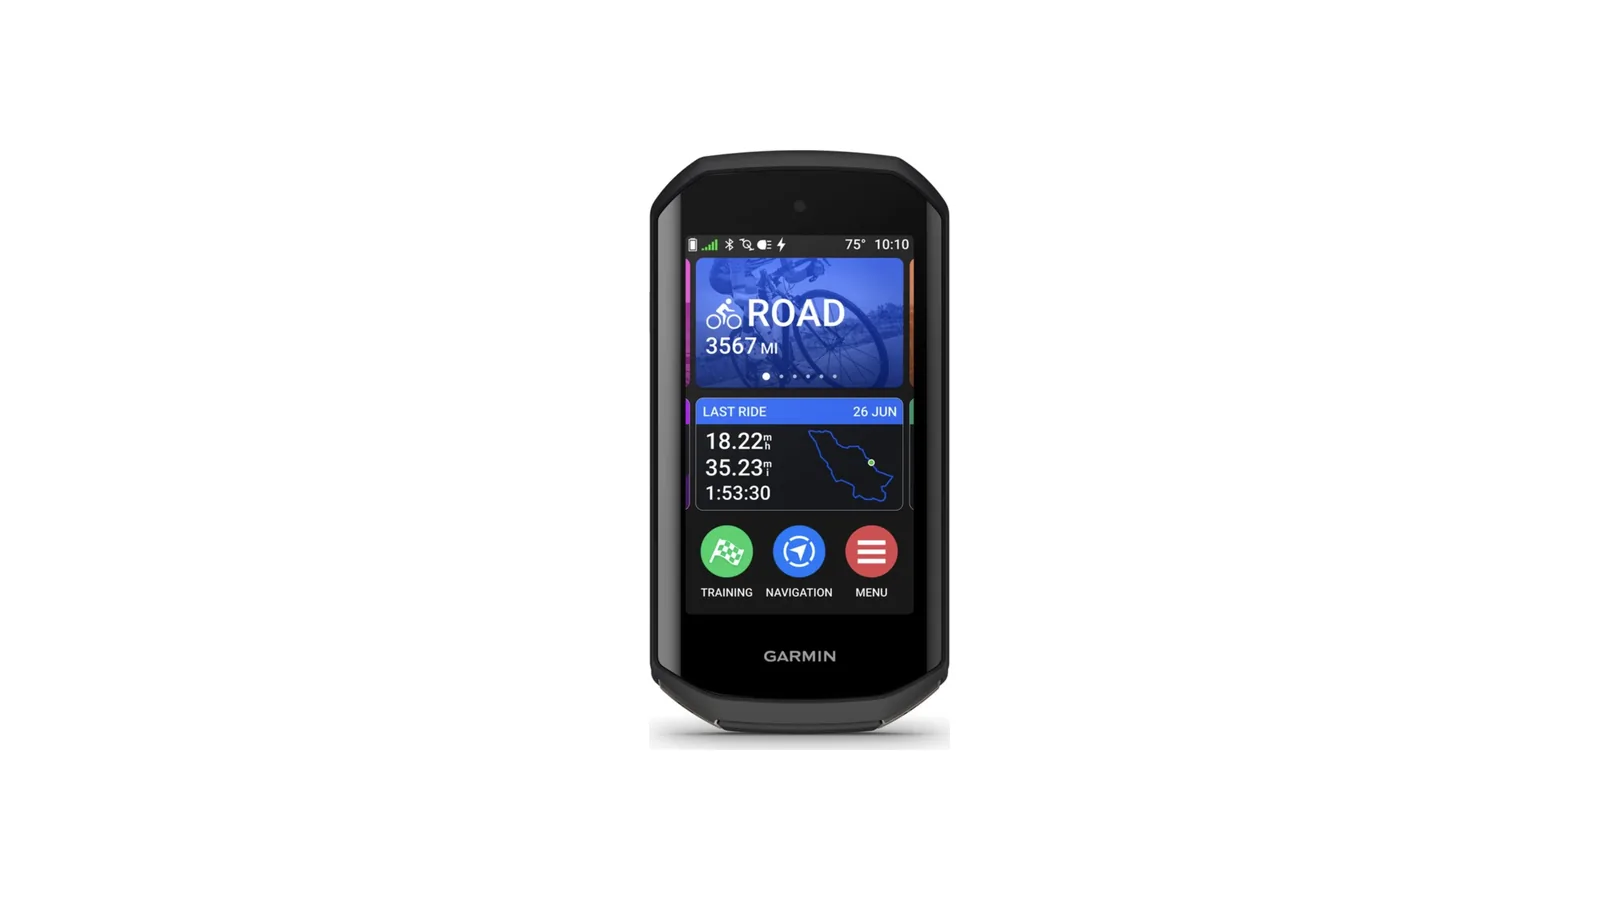
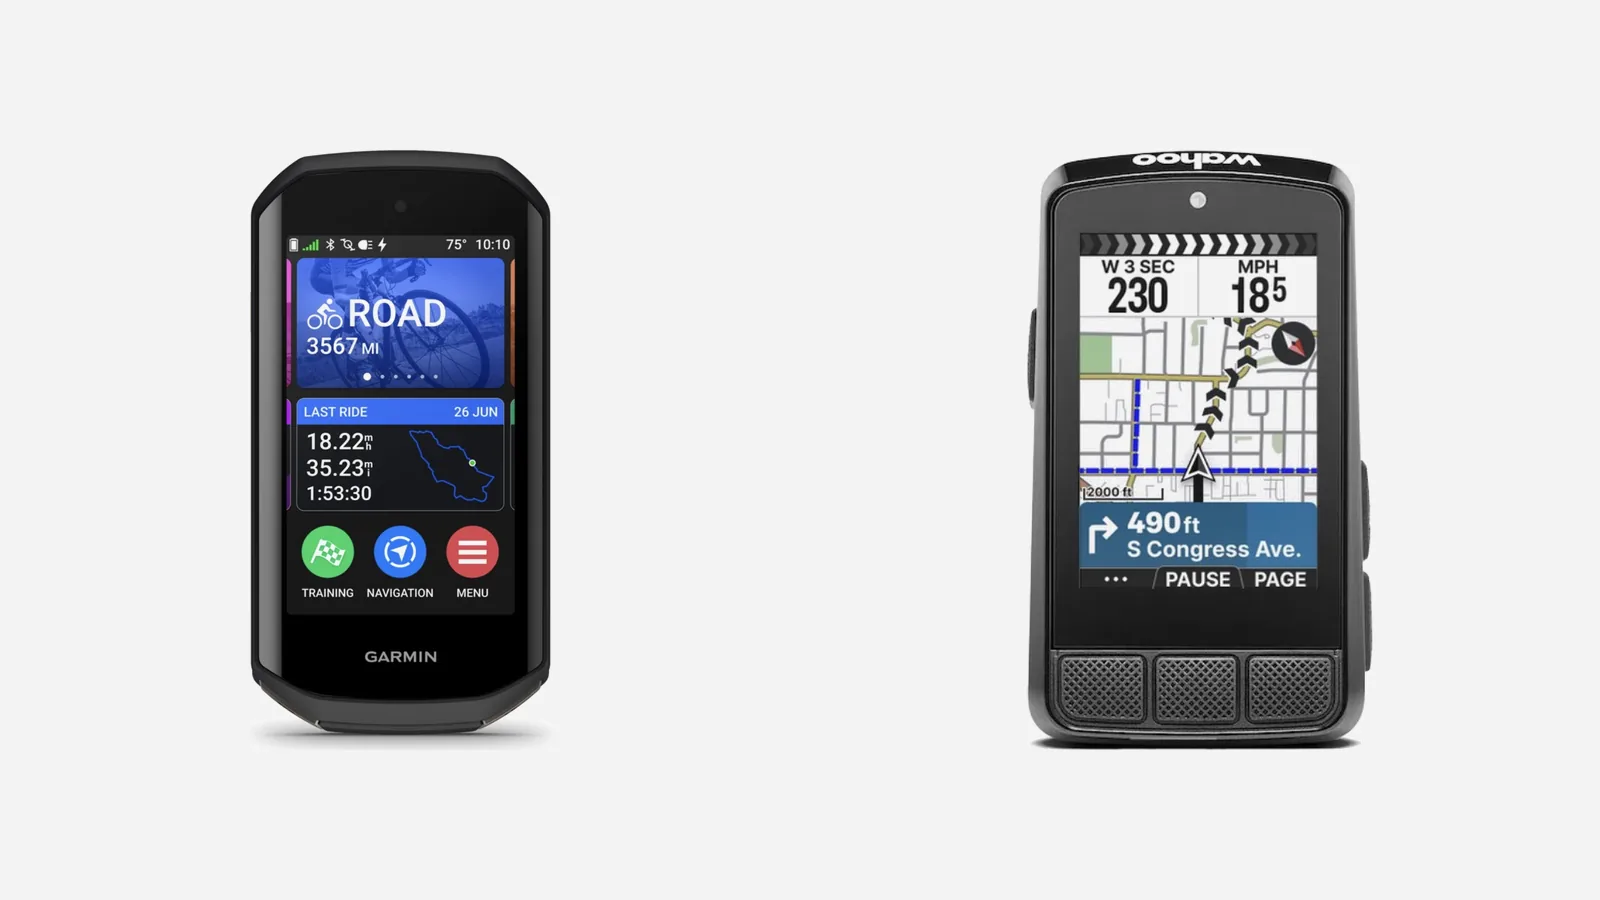
Garmin vs Wahoo: side-by-side cover
Claude-Session: https://claude.ai/code/session_012nBX9arnGcA8nn1be6PAsX

diff --git a/content/posts/garmin-edge-1050-vs-wahoo-elemnt-roam-gravel.md b/content/posts/garmin-edge-1050-vs-wahoo-elemnt-roam-gravel.md
@@ -7,8 +7,8 @@ categories: ["Gravel"]
 tags: ["bike computers", "Garmin Edge 1050", "Wahoo Elemnt Roam 3", "gravel navigation"]
 cover:
   image: "/images/garmin-edge-1050-vs-wahoo-elemnt-roam-gravel-cover.webp"
-  alt: "Garmin Edge 1050 bike computer showing the home screen"
-  caption: "Garmin Edge 1050. Photo: Garmin"
+  alt: "Garmin Edge 1050 next to a Wahoo Elemnt Roam bike computer"
+  caption: "Garmin Edge 1050 (left) and Wahoo Elemnt Roam (right). Photos: Garmin, Wahoo"
   relative: false
 draft: false
 ---
